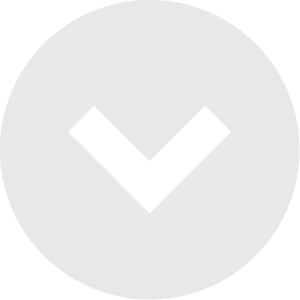
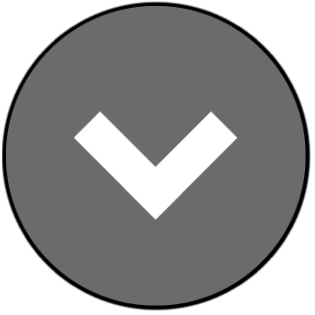
Navigation arrow improved, "not found" message in search

diff --git a/django/tobaccopoisk/about_page/static/about_page/css/about_page_style.css b/django/tobaccopoisk/about_page/static/about_page/css/about_page_style.css
@@ -25,6 +25,16 @@ body {
     width: 70px;
     margin-top: 30px;
     margin-bottom: 40px;
+    border-radius: 15px;
+    opacity: 0.5;
+    -moz-transition: all .2s ease-out;
+    -webkit-transition: all .2s ease-out;
+    -o-transition: all .2s ease-out;
+    transition: all .2s ease-out
+}
+
+.nav_arrow:hover {
+    opacity: 1;
 }
 
 /* HEADER */

diff --git a/django/tobaccopoisk/search_page/templates/search_page/search_page.html b/django/tobaccopoisk/search_page/templates/search_page/search_page.html
@@ -30,6 +30,14 @@
 				Search results:
 			</div>
 
+			{% if found|length == 0 %}
+				<div class="main_header">
+					<font size="5">
+						nothing found
+					</font>
+				</div>
+			{% endif %}
+
 			{% for rec in found %}
 				<a href="/{{rec.brand}}/{{rec.name}}">
 			    <table class="search_element">
